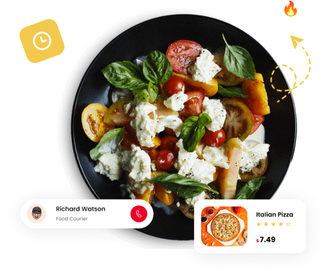
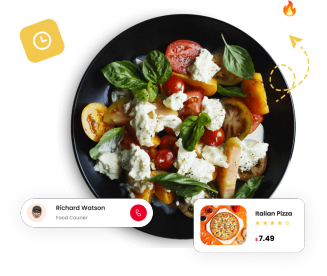
chanhe hero image

diff --git a/frontend/src/components/Hero/Hero.jsx b/frontend/src/components/Hero/Hero.jsx
@@ -4,7 +4,7 @@ import "./Hero.scss";
 const Hero = () => {
   return (
     <div className="header" id="header">
-      <img src="./bg.svg" alt="" className="header-img"/>
+      <img src="./bg.png" alt="" className="header-img"/>
       <div className="header-contents">
         <h2>
           It’s not just a <span>Food</span>,<br /> It's an{" "}
